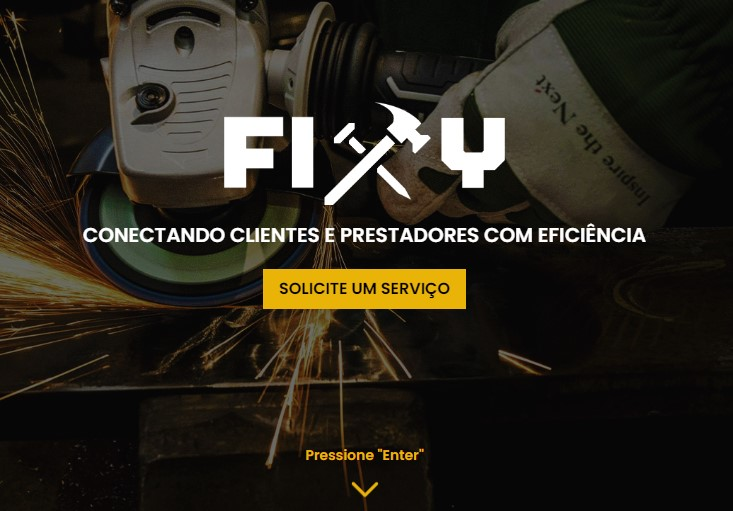
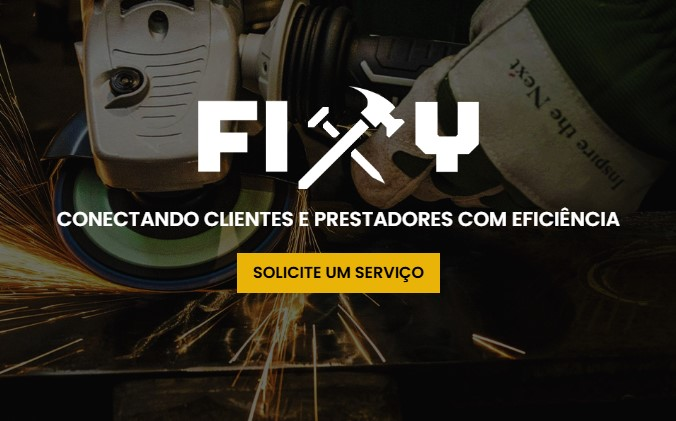
agora sim, celular ta bala

diff --git a/style.css b/style.css
@@ -383,6 +383,12 @@ label {
   overflow-y: hidden;
 }
 
+.galeria{
+  background-position: center center; /* centraliza vertical e horizontal */
+  background-repeat: no-repeat;       /* evita repetição da imagem */
+  background-size: cover;            /* ajusta a imagem para cobrir o container */
+}
+
 .galeria[data-image="THREE"] {
   background-image: url("imgs/fundo1.jpg");
 }
@@ -402,6 +408,7 @@ label {
 .galeria[data-image="EMFOCO"] {
   background-image: url("imgs/fundo1.jpg");
 }
+
 
 .criancas {
   font-size: 1.7rem !important;
@@ -584,3 +591,143 @@ a {
   font-size: 1.2rem;
   color: #fff;
 }
+
+
+@media (max-width: 768px) {
+  .titulo h1 {
+    font-size: 8vw; 
+  }
+
+  .ver-meu-trabalho {
+    width: 90%;
+    height: auto;  
+    padding: 10px;
+  }
+
+  .ver-meu-trabalho h2 {
+    font-size: 7vw;
+  }
+
+  .ver-meu-trabalho span {
+    font-size: 5vw;
+  }
+  .organizar {
+    flex-direction: column; 
+  }
+
+  .apresentacao, .skills {
+    width: 80%;
+    margin: 20px 0; 
+  }
+  .cards {
+    flex-direction: column;
+    align-items: center;
+  }
+
+  .cards .card {
+    width: 80%;
+    margin-bottom: 20px;
+  }
+
+  /* Projetos */
+  .projetos {
+    clip-path: none; /* Se quiser remover o efeito de 'borda recortada' em mobile */
+    padding: 50px 0;
+  }
+
+  .projetos > div {
+    flex-direction: column; /* ou display: block, depende de como você preferir */
+    align-items: center;
+  }
+
+  .cinza {
+    margin-bottom: 20px;
+  }
+  .custom-form {
+    width: 90%; /* Ocupa quase toda a tela */
+  }
+}
+
+/* =========== CSS GERAL DO HEADER =========== */
+
+header {
+  position: relative; /* Para posicionar elementos ABSOLUTE dentro dele */
+  background-color: #3D5C66;
+  border-bottom: 3px #00C3FF solid;
+  width: 100%;
+  height: 60px; /* Ajuste conforme seu design */
+  display: flex;
+  align-items: center;
+  justify-content: space-between; /* Empurra conteúdo para as laterais */
+}
+
+/* Se você tiver o nome do site ou algo, pode ficar à esquerda */
+header h1 {
+  margin-left: 20px; 
+  color: white;
+}
+
+/* =========== ÍCONE DE MENU (MOBILE) =========== */
+.mobile-menu-icon {
+  display: none;           /* Some no desktop */
+  position: absolute;      /* Vamos posicionar no canto direito */
+  top: 15px;               /* Ajuste fino */
+  right: 15px;             /* Ajuste fino */
+  cursor: pointer;
+  font-size: 2rem;
+  color: white;
+}
+
+/* =========== LISTA DE LINKS =========== */
+header ul {
+  list-style: none;
+  display: flex;
+  margin-right: 20px;
+  gap: 20px; /* espaçamento entre os itens */
+}
+
+/* No desktop, os links ficam lado a lado normalmente */
+header li {
+  color: white;
+  font-family: 'Raleway', sans-serif;
+  font-size: 1.4rem;
+  cursor: pointer;
+}
+
+/* =========== MEDIA QUERY (TELAS MENORES) =========== */
+@media (max-width: 768px) {
+  /* Mostra o ícone no mobile */
+  .mobile-menu-icon {
+    display: block;
+  }
+
+  /* Esconde a UL, pois usaremos .active para exibir */
+  header ul {
+    display: none;
+    flex-direction: column; /* empilhado */
+    position: absolute;     /* fica “flutuando” dentro do header */
+    top: 60px;             /* logo abaixo do header */
+    right: 0;              /* encosta no lado direito */
+    width: 50%;            /* define a largura do menu aberto */
+    background-color: #3D5C66;
+    padding: 10px 10px;
+    z-index: 999;
+    margin: 0;
+  }
+
+  /* Quando adicionamos a classe .active em JS, aparecemos o menu */
+  header ul.active {
+    display: flex;
+  }
+
+  /* Ajuste da margem/padding dos itens quando estiver empilhado */
+  header li {
+    margin: 10px 0;
+  }
+}
+
+
+
+
+
+

diff --git a/script.js b/script.js
@@ -114,7 +114,7 @@ const projectInfo = {
   },
   EBOOK: {
     title: "Automação Gerador de Leads",
-    description: "Projeto desenvolvido em Python utilizando Selenium, esse programa foi destinado para fazer a captação de leads para uma empresa chamada Sorria Bank, onde eu criei um script em Selenium que pegava os dados de possíveis clientes em um site chamado Econodata, depois de pegar os dados eu tinha que salvar eles em uma planilha e enviar para a Sorria!"
+    description: "Projeto desenvolvido em Python utilizando Selenium, esse programa foi destinado para fazer a captação de leads para uma empresa chamada Sorria Bank, onde eu criei um script em Selenium que buscava os dados de possíveis clientes em um site chamado Econodata, depois de pegar os dados eu tinha que salvar eles em uma planilha e enviar para a Sorria!"
   },
   EMFOCO: {
     title: "Fixy Repair",
@@ -156,6 +156,16 @@ document.addEventListener("DOMContentLoaded", () => {
     }
   });
 });
+
+// Exemplo usando id para o ícone e a ul
+const btnMobile = document.getElementById("btn-mobile"); 
+const nav = document.getElementById("nav"); // suponde que <ul> tem id="nav"
+
+btnMobile.addEventListener("click", () => {
+  nav.classList.toggle("active");
+});
+
+
 
 // Seu código existente do ScrollReveal e outras funcionalidades permanecem inalterados.
 

diff --git a/index.html b/index.html
@@ -40,14 +40,20 @@
     </div>
 
     <header>
-        <ul>
-            <li>Home</li>
-            <li>Sobre</li>
-            <li>Portfólio</li>
-            <li>Redes Sociais</li>
-            <li>Contato</li>
+        <!-- Ícone do menu que só aparece no mobile -->
+        <div class="mobile-menu-icon" id="btn-mobile">
+          <span class="material-symbols-outlined">menu</span>
+        </div>
+        
+        <ul id="nav">
+          <li>Home</li>
+          <li>Sobre</li>
+          <li>Portfólio</li>
+          <li>Redes Sociais</li>
+          <li>Contato</li>
         </ul>
-    </header>
+      </header>
+      
 
     <main>
         <section>
